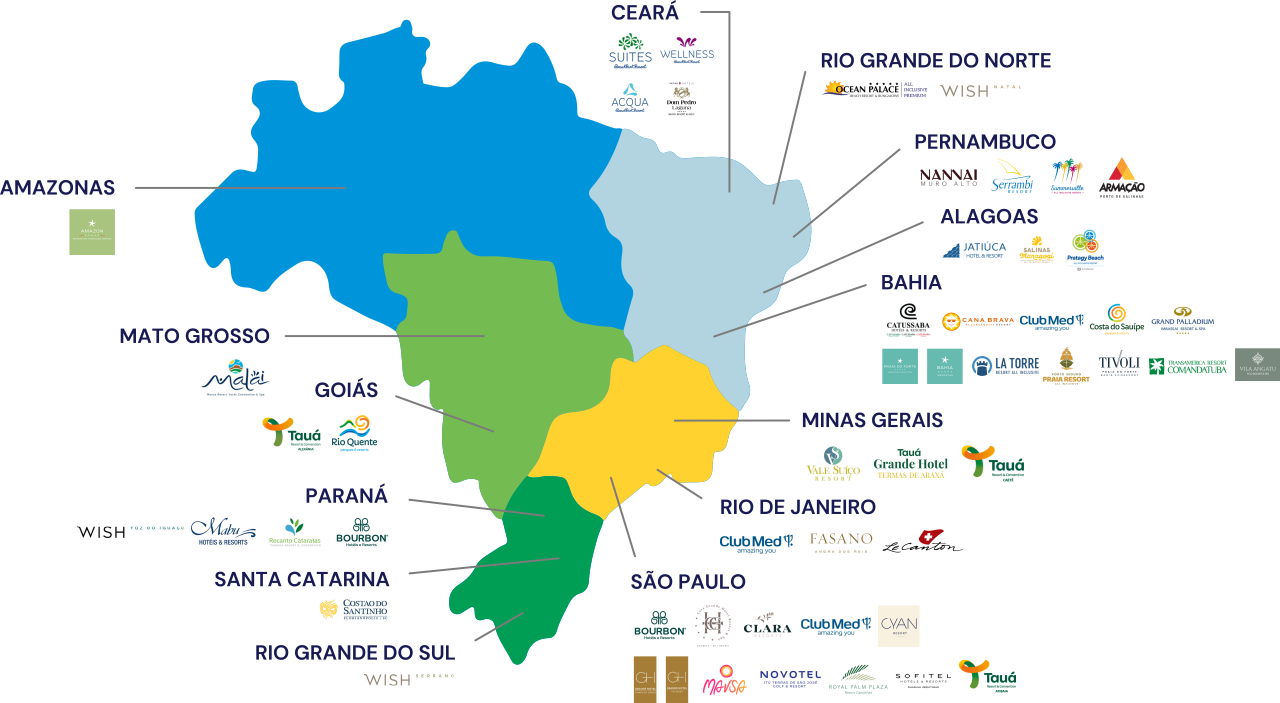
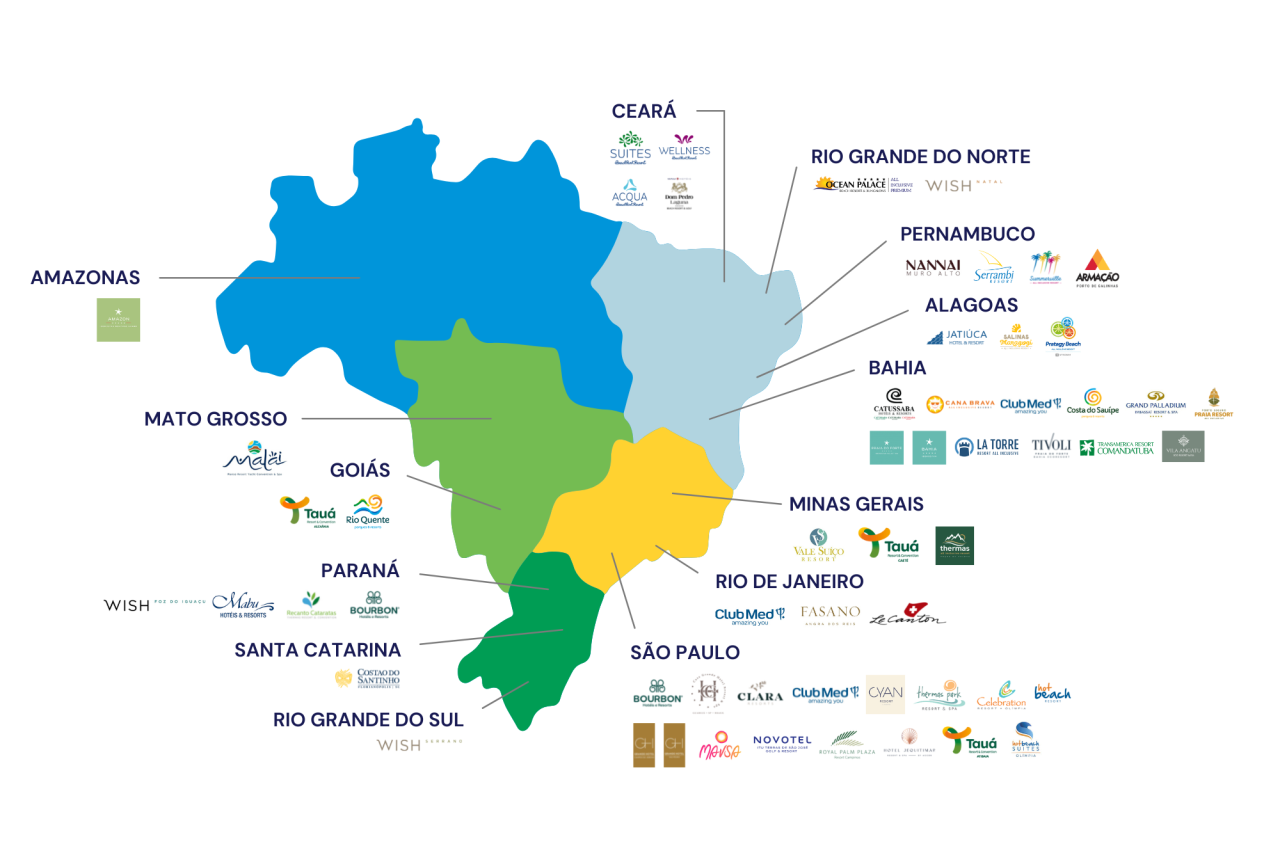
update 2022-11-25

diff --git a/index.html b/index.html
@@ -269,9 +269,9 @@
                 <div class="row">
                     <div class="col-lg-10 center">
                         <div class="heading-text heading-line text-center m-b-40">
-                            <h4>Resorts Associados:</h4>
+                            <h4>Resorts Associados</h4>
                         </div>
-                        <div class="carousel client-logos dots-grey" data-items="9" data-arrows="false"
+                        <div class="carousel client-logos dots-grey" data-items="8" data-arrows="false"
                             data-dots="false" data-autoplay="1000" data-loop="true">
                             <div>
                                 <a href="#"><img alt="acqua beach park"
@@ -300,6 +300,10 @@
                             <div>
                                 <a href="#"><img alt="catussaba resort hotel"
                                         src="images/associados/catussaba-resort-hotel.png"></a>
+                            </div>
+                            <div>
+                                <a href="#"><img alt="celebration resort olimpia hot beach"
+                                        src="images/associados/celebration-resort-olimpia.png"></a>
                             </div>
                             <div>
                                 <a href="#"><img alt="clara resorts" src="images/associados/clara-resorts.jpg"></a>
@@ -336,6 +340,14 @@
                             <div>
                                 <a href="#"><img alt="grand palladium imbassai"
                                         src="images/associados/grand-palladium-imbassai.png"></a>
+                            </div>
+                            <div>
+                                <a href="#"><img alt="hot beach resort"
+                                        src="images/associados/hot-beach-resort.png"></a>
+                            </div>
+                            <div>
+                                <a href="#"><img alt="hot beach suites olimpia"
+                                        src="images/associados/hot-beach-suites-olimpia.png"></a>
                             </div>
                             <div>
                                 <a href="#"><img alt="iberostar bahia" src="images/associados/iberostar-bahia.png"></a>
@@ -418,8 +430,8 @@
                                         src="images/associados/summerville-all-inclusive-resort.png"></a>
                             </div>
                             <div>
-                                <a href="#"><img alt="tauá grand hotel termas araxá"
-                                        src="images/associados/taua-grande-hotel-termas-araxa.png"></a>
+                                <a href="#"><img alt="thermas all inclusive"
+                                        src="images/associados/thermas-all-inclusive.png"></a>
                             </div>
                             <div>
                                 <a href="#"><img alt="tauá resort alexania"
@@ -432,6 +444,10 @@
                             <div>
                                 <a href="#"><img alt="tauá resort caete"
                                         src="images/associados/taua-resort-caete.png"></a>
+                            </div>
+                            <div>
+                                <a href="#"><img alt="thermas park resort spa hot beach"
+                                        src="images/associados/thermas-park-resort-spa.png"></a>
                             </div>
                             <div>
                                 <a href="#"><img alt="tivoli bahia ecoresort"
@@ -465,14 +481,50 @@
                             </div>
                         </div>
                         <div class="text-center p-t-50">
-                            <a class="btn btn-warning btn-lg" href="associados.html">Conheça os resorts</a>
-                            <p class="text-muted">#AssociacaoBrasileiraDeResorts</p>
+                            <a class="btn btn-warning" href="associados.html">Conheça os resorts</a>
                         </div>
                     </div>
                 </div>
             </div>
         </section>
         <!-- end: Resorts Associados -->
+
+        <!-- Parceiros -->
+        <section id="parceiros" class="p-t-30">
+            <div class="container">
+                <div class="row">
+                    <div class="col-lg-10 center">
+                        <div class="row">
+                            <div class="col-lg-5">
+                                <h4 style="letter-spacing: 1px;">Mantenedores:</h4>
+                                <ul class="grid grid-3-columns text-center">
+                                    <li><a href="https://rentv.com.br/" target="_blank"><img alt="Rentv"
+                                                src="images/parceiros/rentv.png"></a></li>
+                                    <li><a href="https://www.r1audiovisual.com.br/" target="_blank"><img
+                                                alt="R1 Audio Visual" src="images/parceiros/r1-grupo.png"></a></li>
+                                    <li><a href="https://str.com/pt-br" target="_blank"><img alt="STR"
+                                                src="images/parceiros/str.png"></a></li>
+                                </ul>
+                            </div>
+                            <div class="col-lg-7">
+                                <h4 style="letter-spacing: 1px;">Parceiros:</h4>
+                                <ul class="grid grid-5-columns text-center">
+                                    <li><a href="https://www.amigosdobem.org/" target="_blank"><img alt="Amigos do bem"
+                                                src="images/parceiros/amigos-do-bem.png"></a></li>
+                                    <li><a href="https://www.sp.senac.br/" target="_blank"><img alt="senac"
+                                                src="images/parceiros/senac.png"></a></li>
+                                    <li><a href="https://eaesp.fgv.br/centros/fgvcemd" target="_blank"><img
+                                                alt="fgv cemd" src="images/parceiros/fgv-cemd.png"></a>
+                                    <li><a href="https://www.jll.com.br/" target="_blank"><img alt="JLL"
+                                                src="images/parceiros/jll.png"></a></li>
+                                </ul>
+                            </div>
+                        </div>
+                    </div>
+                </div>
+            </div>
+        </section>
+        <!-- end: Parceiros -->
 
         <!-- Footer -->
         <footer id="footer">

diff --git a/associados.html b/associados.html
@@ -327,13 +327,14 @@
                                                     <img src="images/associados/vale-suico-resort.png"
                                                         alt="vale suiço resort"></a>
                                             </li>
-                                            <li><a href="https://reservas.tauaresorts.com.br/araxa" target="_blank">
-                                                    <img src="images/associados/taua-grande-hotel-termas-araxa.png"
-                                                        alt="tauá grande hotel termas araxá"></a>
-                                            </li>
                                             <li><a href="https://reservas.tauaresorts.com.br/caete" target="_blank">
                                                     <img src="images/associados/taua-resort-caete.png"
                                                         alt="tauá resort caete"></a>
+                                            </li>
+                                            <li><a href="https://www.nacionalinn.com.br/hoteis/hotel-thermas-resort-walter-world"
+                                                    target="_blank">
+                                                    <img src="images/associados/thermas-all-inclusive.png"
+                                                        alt="thermas all inclusive"></a>
                                             </li>
                                         </ul>
                                     </div>

diff --git a/associe-se.html b/associe-se.html
@@ -140,7 +140,7 @@
                                 associação é um dos pilares para nosso desenvolvimento e fortalecimento como segmento.
                             </p>
                             <div class="m-b-20">
-                                <a href="associe-se.html" target="_blank" class="btn">Associe-se</a>
+                                <a href="fale-conosco.html" target="_blank" class="btn">Associe-se</a>
                                 <a href="associados.html" class="btn btn-outline">Conheça os associados</a>
                             </div>
                         </div>
